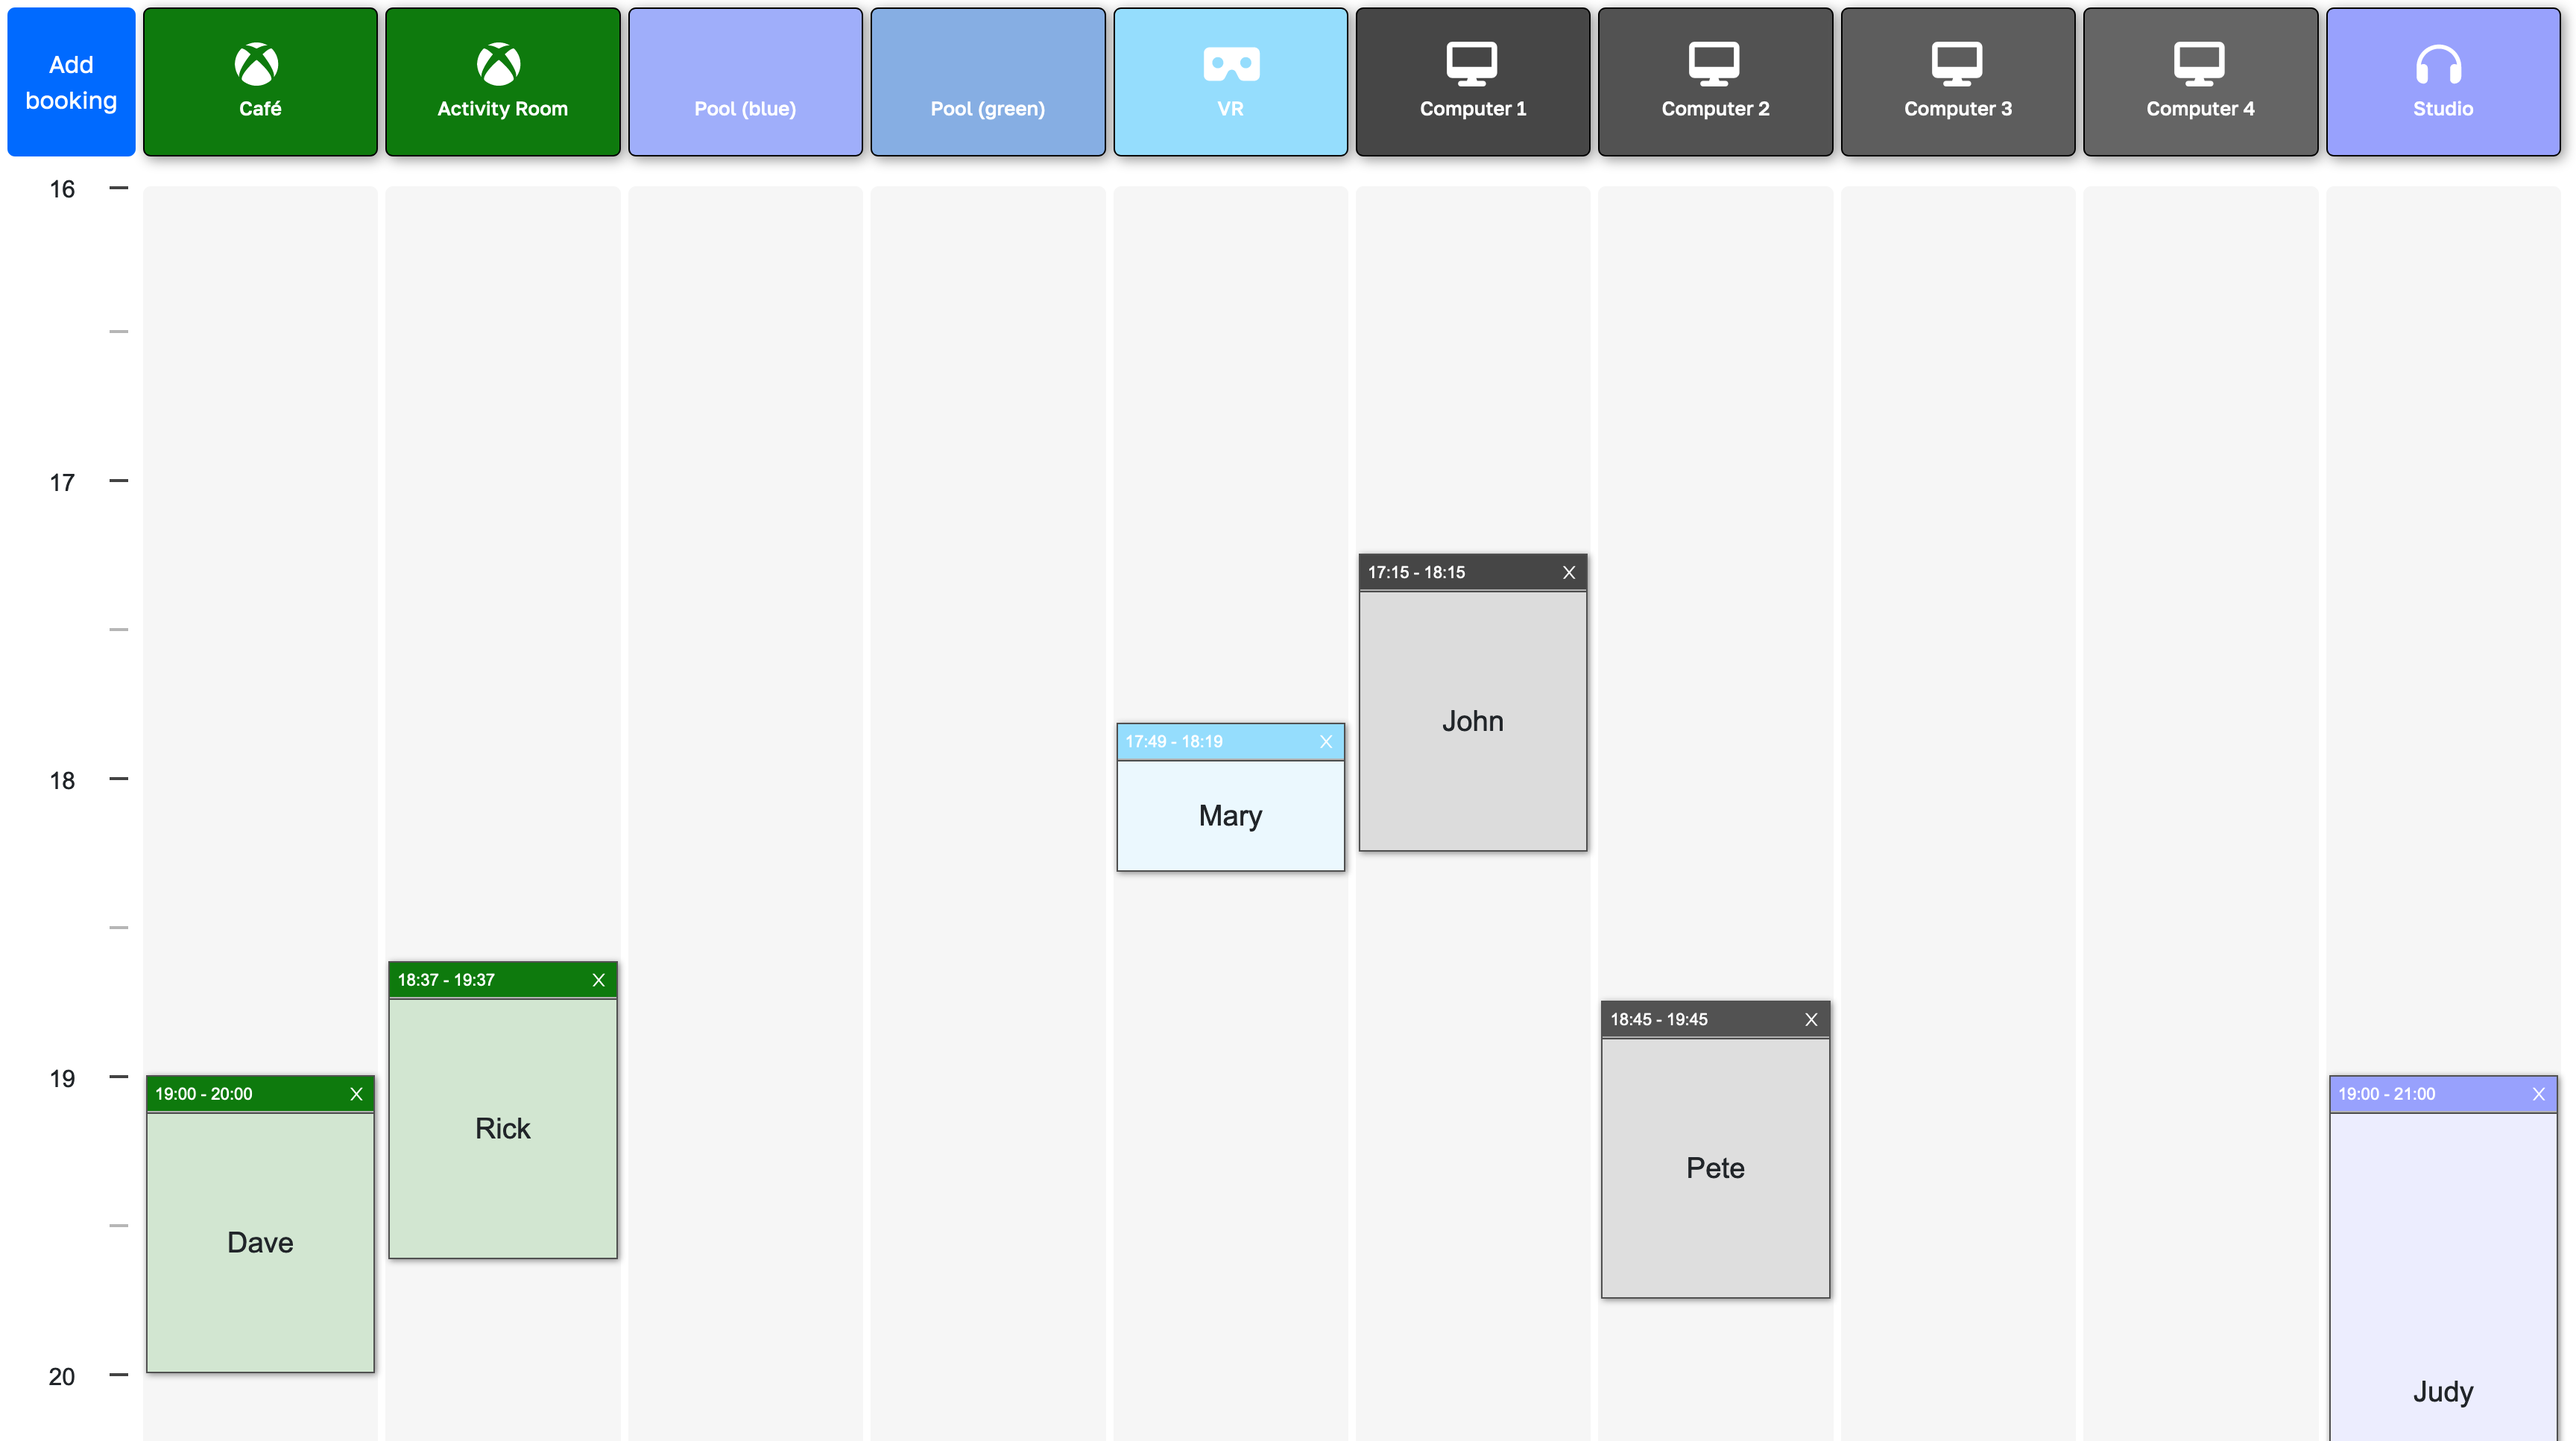
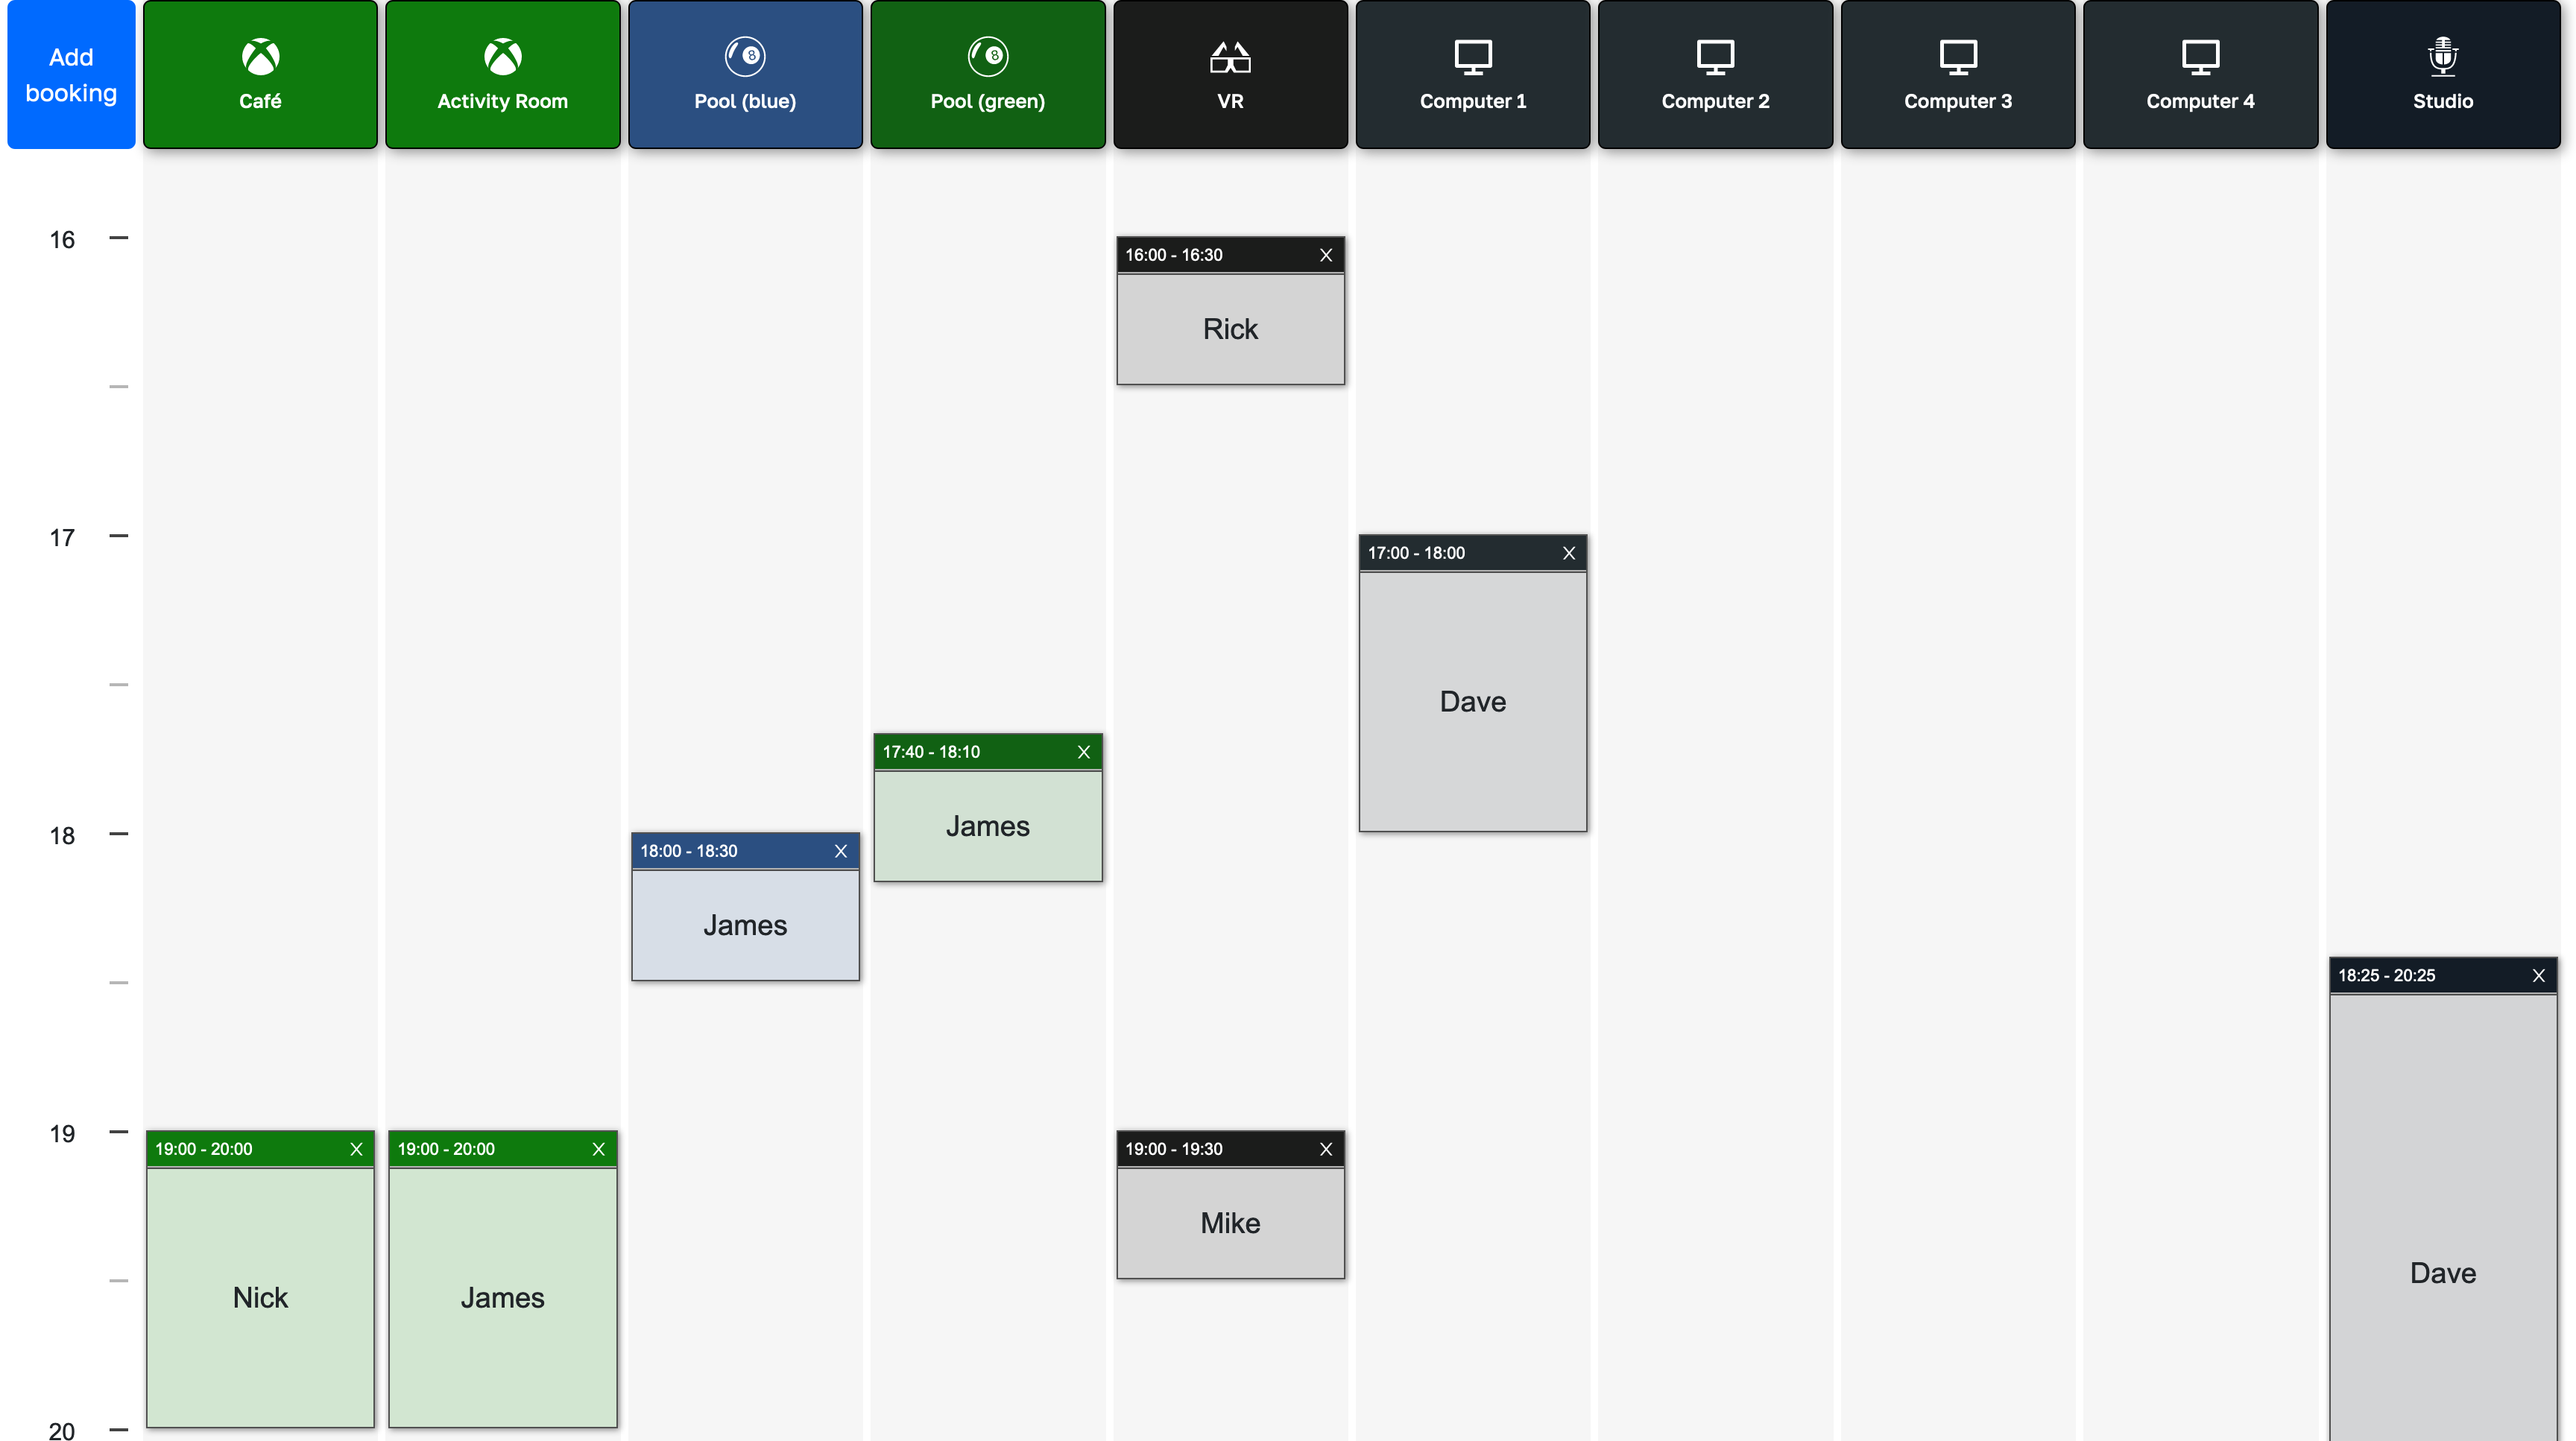
changed styling, added svg's

diff --git a/client/src/settings/Categories.js b/client/src/settings/Categories.js
@@ -1,12 +1,10 @@
 //Edit this list to edit categories
-const xbox =
-  "M369.9 318.2c44.3 54.3 64.7 98.8 54.4 118.7-7.9 15.1-56.7 44.6-92.6 55.9-29.6 9.3-68.4 13.3-100.4 10.2-38.2-3.7-76.9-17.4-110.1-39C93.3 445.8 87 438.3 87 423.4c0-29.9 32.9-82.3 89.2-142.1 32-33.9 76.5-73.7 81.4-72.6 9.4 2.1 84.3 75.1 112.3 109.5zM188.6 143.8c-29.7-26.9-58.1-53.9-86.4-63.4-15.2-5.1-16.3-4.8-28.7 8.1-29.2 30.4-53.5 79.7-60.3 122.4-5.4 34.2-6.1 43.8-4.2 60.5 5.6 50.5 17.3 85.4 40.5 120.9 9.5 14.6 12.1 17.3 9.3 9.9-4.2-11-.3-37.5 9.5-64 14.3-39 53.9-112.9 120.3-194.4zm311.6 63.5C483.3 127.3 432.7 77 425.6 77c-7.3 0-24.2 6.5-36 13.9-23.3 14.5-41 31.4-64.3 52.8C367.7 197 427.5 283.1 448.2 346c6.8 20.7 9.7 41.1 7.4 52.3-1.7 8.5-1.7 8.5 1.4 4.6 6.1-7.7 19.9-31.3 25.4-43.5 7.4-16.2 15-40.2 18.6-58.7 4.3-22.5 3.9-70.8-.8-93.4zM141.3 43C189 40.5 251 77.5 255.6 78.4c.7.1 10.4-4.2 21.6-9.7 63.9-31.1 94-25.8 107.4-25.2-63.9-39.3-152.7-50-233.9-11.7-23.4 11.1-24 11.9-9.4 11.2z";
-const vr =
-  "M576 64H64C28.7 64 0 92.7 0 128V384c0 35.3 28.7 64 64 64H184.4c24.2 0 46.4-13.7 57.2-35.4l32-64c8.8-17.5 26.7-28.6 46.3-28.6s37.5 11.1 46.3 28.6l32 64c10.8 21.7 33 35.4 57.2 35.4H576c35.3 0 64-28.7 64-64V128c0-35.3-28.7-64-64-64zM96 240a64 64 0 1 1 128 0A64 64 0 1 1 96 240zm384-64a64 64 0 1 1 0 128 64 64 0 1 1 0-128z";
-const computer =
-  "M64 0C28.7 0 0 28.7 0 64V352c0 35.3 28.7 64 64 64H240l-10.7 32H160c-17.7 0-32 14.3-32 32s14.3 32 32 32H416c17.7 0 32-14.3 32-32s-14.3-32-32-32H346.7L336 416H512c35.3 0 64-28.7 64-64V64c0-35.3-28.7-64-64-64H64zM512 64V288H64V64H512z";
-const headphones =
-  "M256 80C149.9 80 62.4 159.4 49.6 262c9.4-3.8 19.6-6 30.4-6c26.5 0 48 21.5 48 48V432c0 26.5-21.5 48-48 48c-44.2 0-80-35.8-80-80V384 336 288C0 146.6 114.6 32 256 32s256 114.6 256 256v48 48 16c0 44.2-35.8 80-80 80c-26.5 0-48-21.5-48-48V304c0-26.5 21.5-48 48-48c10.8 0 21 2.1 30.4 6C449.6 159.4 362.1 80 256 80z";
+import {
+  GiEightBall as pool,
+  Gi3DGlasses as vr,
+  GiOldMicrophone as studio,
+} from "react-icons/gi";
+import { RiComputerLine as computer, RiXboxFill as xbox } from "react-icons/ri";
 
 export const categories = [
   {
@@ -27,54 +25,56 @@ export const categories = [
     id: 2,
     name: "Pool (blue)",
     duration: 30,
-    color: "#9FAEFA",
+    color: "#2B4F81",
+    icon: pool,
   },
   {
     id: 3,
     name: "Pool (green)",
     duration: 30,
-    color: "#86AEE3",
+    color: "#116113",
+    icon: pool,
   },
   {
     id: 4,
     name: "VR",
     duration: 30,
-    color: "#95DDFD",
+    color: "#1b1c1b",
     icon: vr,
   },
   {
     id: 5,
     name: "Computer 1",
     duration: 60,
-    color: "#464646",
+    color: "#232c30",
     icon: computer,
   },
   {
     id: 6,
     name: "Computer 2",
     duration: 60,
-    color: "#525252",
+    color: "#232c30",
     icon: computer,
   },
   {
     id: 7,
     name: "Computer 3",
     duration: 60,
-    color: "#5d5d5d",
+    color: "#232c30",
     icon: computer,
   },
   {
     id: 8,
     name: "Computer 4",
     duration: 60,
-    color: "#656565",
+    color: "#232c30",
     icon: computer,
   },
   {
     id: 9,
     name: "Studio",
     duration: 120,
-    color: "#98A1FD",
-    icon: headphones,
+    color: "#131c26",
+    icon: studio,
   },
 ];

diff --git a/client/src/components/header/Header.jsx b/client/src/components/header/Header.jsx
@@ -19,16 +19,7 @@ const Header = ({ categories, handleView }) => {
             className={`headerGridColumn column-${index}`}
           >
             <div className="headerIcon">
-              <svg
-                xmlns="http://www.w3.org/2000/svg"
-                width="100"
-                height="30"
-                viewBox="0 0 612 512"
-                // preserveAspectRatio="xMinYMin meet"
-              >
-                {/* Font Awesome Pro 6.3.0 by @fontawesome - https://fontawesome.com License - https://fontawesome.com/license (Commercial License) Copyright 2023 Fonticons, Inc. */}
-                <path fill="white" d={category.icon} />
-              </svg>
+              <category.icon size="30" color="white" />
             </div>
             <div className="headerCatName">
               <h1>{category.name}</h1>

diff --git a/client/src/App.jsx b/client/src/App.jsx
@@ -30,8 +30,8 @@ function App() {
   useEffect(() => {
     let getDate = dayjs().day();
     let today = getDate++;
-    // setDate(today);
-    setDate(5);
+    setDate(today);
+    // setDate(5);
   }, []);
 
   /* ---------------------------------------------------------- */

diff --git a/client/src/components/header/SvgHelper.jsx b/client/src/components/header/SvgHelper.jsx
@@ -1,0 +1,8 @@
+import React from "react";
+i;
+
+const SvgHelper = ({ category }) => {
+  return <div>SvgHelper</div>;
+};
+
+export default SvgHelper;
